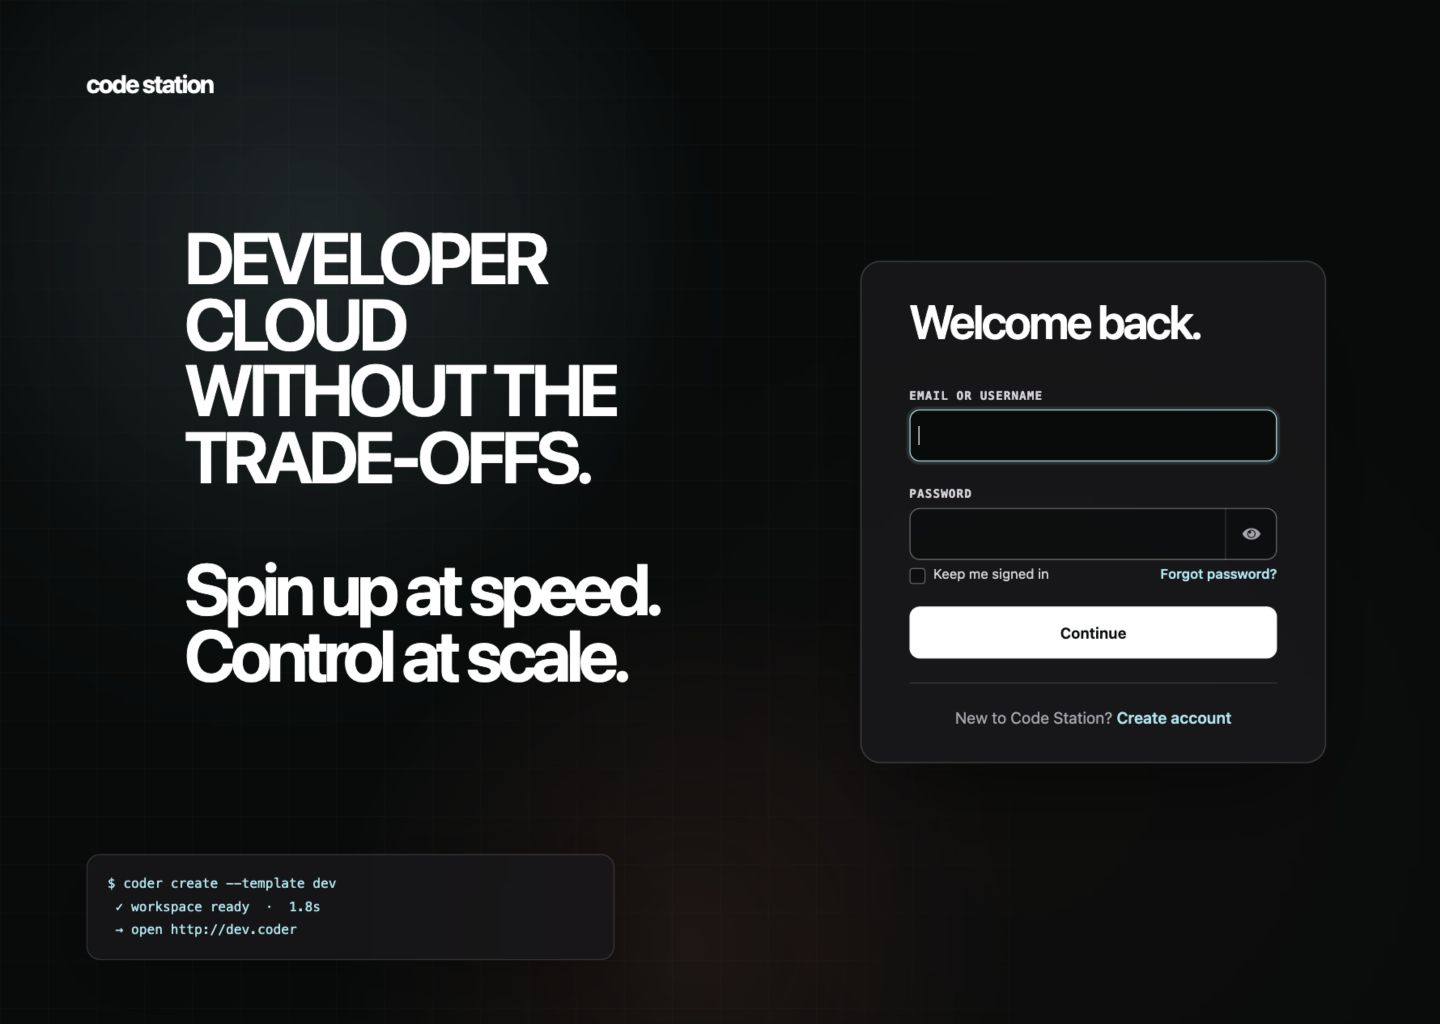
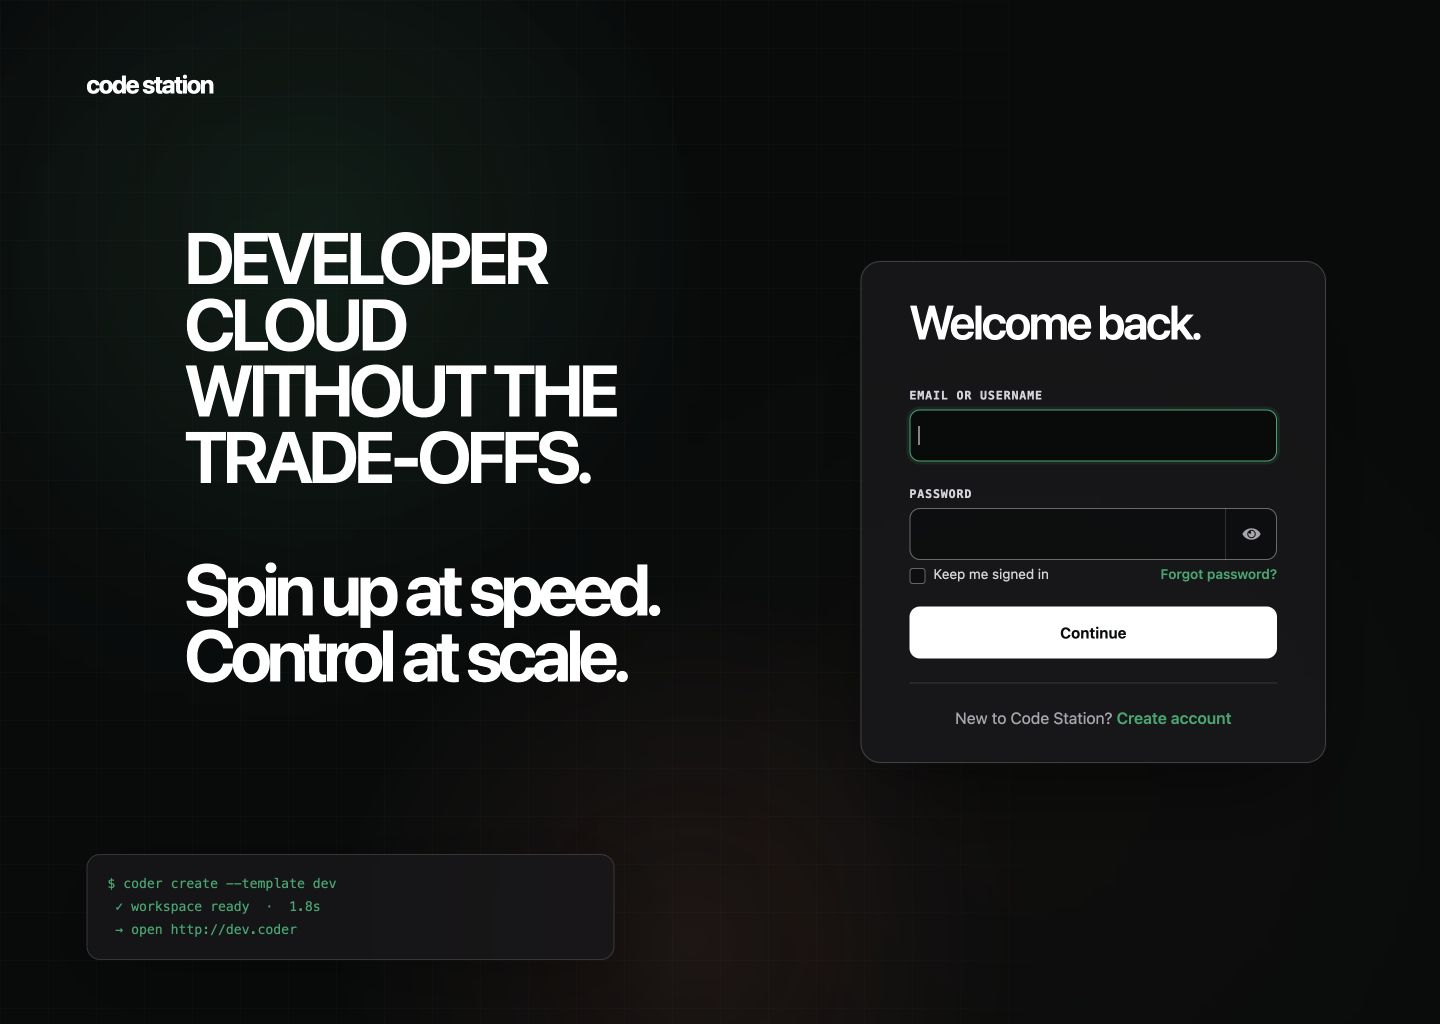
feat!: adopt BNP Paribas identity

diff --git a/theme/coder/welcome/resources/css/welcome.css b/theme/coder/welcome/resources/css/welcome.css
@@ -3,8 +3,8 @@
   --station-card: rgba(24, 23, 26, 0.88);
   --station-white: #fff;
   --station-muted: #a9a5ae;
-  --station-accent: #a4e8f2;
-  --station-accent-strong: #70d7e6;
+  --station-accent: #00a76d;
+  --station-accent-strong: #7fcbae;
   --station-ember: #ff8067;
   --station-border: rgba(255, 255, 255, 0.18);
   --station-border-soft: rgba(255, 255, 255, 0.12);
@@ -46,7 +46,7 @@ body::before {
   background-image:
     linear-gradient(rgba(255, 255, 255, 0.052) 1px, transparent 1px),
     linear-gradient(90deg, rgba(255, 255, 255, 0.052) 1px, transparent 1px),
-    radial-gradient(circle, rgba(164, 232, 242, 0.24) 1px, transparent 1.6px);
+    radial-gradient(circle, rgba(0, 167, 109, 0.24) 1px, transparent 1.6px);
   background-size: 48px 48px, 48px 48px, 96px 96px;
   transform: translate3d(0, 0, 0);
   animation: welcome-grid-flow 18s linear infinite;
@@ -60,15 +60,15 @@ body::after {
     linear-gradient(
       112deg,
       transparent 24%,
-      rgba(164, 232, 242, 0.04) 39%,
-      rgba(164, 232, 242, 0.16) 48%,
+      rgba(0, 167, 109, 0.04) 39%,
+      rgba(0, 167, 109, 0.16) 48%,
       rgba(255, 255, 255, 0.06) 51%,
       rgba(255, 128, 103, 0.1) 55%,
       transparent 72%
     ),
-    radial-gradient(circle at 24% 30%, rgba(164, 232, 242, 0.42), transparent 25%),
+    radial-gradient(circle at 24% 30%, rgba(0, 167, 109, 0.42), transparent 25%),
     radial-gradient(circle at 72% 74%, rgba(255, 128, 103, 0.3), transparent 28%),
-    radial-gradient(circle at 58% 42%, rgba(164, 232, 242, 0.16), transparent 22%);
+    radial-gradient(circle at 58% 42%, rgba(0, 167, 109, 0.16), transparent 22%);
   filter: blur(36px) saturate(112%);
   animation: welcome-ambient-drift 14s ease-in-out infinite alternate;
   will-change: opacity;
@@ -143,7 +143,7 @@ body::after {
   height: 0.5rem;
   border-radius: 50%;
   background: var(--station-accent);
-  box-shadow: 0 0 0 4px rgba(164, 232, 242, 0.1), 0 0 1rem rgba(164, 232, 242, 0.55);
+  box-shadow: 0 0 0 4px rgba(0, 167, 109, 0.1), 0 0 1rem rgba(0, 167, 109, 0.55);
 }
 
 .welcome-layout {
@@ -248,7 +248,7 @@ body::after {
   border-radius: 1.25rem;
   justify-self: end;
   background: var(--station-card);
-  box-shadow: 0 0 0 1px rgba(164, 232, 242, 0.035), 0 2.25rem 6rem -2rem rgba(0, 0, 0, 0.62);
+  box-shadow: 0 0 0 1px rgba(0, 167, 109, 0.035), 0 2.25rem 6rem -2rem rgba(0, 0, 0, 0.62);
   backdrop-filter: blur(20px);
 }
 
@@ -256,15 +256,45 @@ body::after {
   display: grid;
   width: 3rem;
   height: 3rem;
-  margin-bottom: 1.5rem;
-  border: 1px solid rgba(164, 232, 242, 0.35);
+  border: 1px solid rgba(0, 167, 109, 0.35);
   border-radius: 0.75rem;
   place-items: center;
   color: var(--station-accent);
-  background: rgba(164, 232, 242, 0.08);
+  background: rgba(0, 167, 109, 0.08);
   font-family: var(--station-mono);
   font-size: 1rem;
   font-weight: 700;
+}
+
+.welcome-card-header {
+  display: flex;
+  margin-bottom: 1.75rem;
+  align-items: center;
+  gap: 0.9rem;
+}
+
+.welcome-card-header::after {
+  height: 1px;
+  margin-left: 0.2rem;
+  flex: 1;
+  content: "";
+  background: linear-gradient(90deg, var(--station-border), transparent);
+}
+
+.welcome-card-heading-copy {
+  flex: 0 0 auto;
+}
+
+.welcome-card-header .welcome-card-kicker {
+  margin: 0 0 0.3rem;
+}
+
+.welcome-card-context {
+  margin: 0;
+  color: var(--station-muted);
+  font-family: var(--station-mono);
+  font-size: 0.62rem;
+  letter-spacing: 0.08em;
 }
 
 .welcome-icon-success {
@@ -346,6 +376,7 @@ body::after {
 
 .welcome-meta div {
   min-width: 0;
+  text-align: center;
 }
 
 .welcome-meta dt {
@@ -384,8 +415,8 @@ body::after {
 }
 
 .welcome-alert-success {
-  border-color: rgba(164, 232, 242, 0.45);
-  background: rgba(0, 92, 106, 0.22);
+  border-color: rgba(0, 167, 109, 0.45);
+  background: rgba(0, 128, 83, 0.22);
 }
 
 .welcome-alert-error {
@@ -424,7 +455,7 @@ body::after {
 .welcome-control:focus-within {
   border-color: var(--station-accent);
   background: var(--station-black);
-  box-shadow: 0 0 0 3px rgba(164, 232, 242, 0.12);
+  box-shadow: 0 0 0 3px rgba(0, 167, 109, 0.12);
 }
 
 .welcome-control input {

diff --git a/theme/coder/login/resources/css/coder.css b/theme/coder/login/resources/css/coder.css
@@ -5,10 +5,10 @@
   --coder-white: #ffffff;
   --coder-shell: #f8f2f1;
   --coder-linen: #fbf8f8;
-  --code-station-accent: #a4e8f2;
-  --code-station-accent-strong: #70d7e6;
+  --code-station-accent: #00a76d;
+  --code-station-accent-strong: #7fcbae;
   --coder-ember: #ff8067;
-  --coder-sky: #a4e8f2;
+  --coder-green: #00a76d;
   --coder-muted: #a9a5ae;
   --coder-border: rgba(255, 255, 255, 0.14);
   --code-station-card-bg: rgba(24, 23, 26, 0.87);
@@ -46,7 +46,7 @@ html.login-pf,
   background-image:
     linear-gradient(rgba(255, 255, 255, 0.035) 1px, transparent 1px),
     linear-gradient(90deg, rgba(255, 255, 255, 0.035) 1px, transparent 1px),
-    radial-gradient(circle at 22% 22%, rgba(164, 232, 242, 0.2), transparent 28%),
+    radial-gradient(circle at 22% 22%, rgba(0, 167, 109, 0.2), transparent 28%),
     radial-gradient(circle at 48% 92%, rgba(255, 128, 103, 0.18), transparent 30%);
   background-size: 48px 48px, 48px 48px, auto, auto;
   mask-image: linear-gradient(90deg, #000 0%, #000 58%, transparent 78%);
@@ -60,7 +60,7 @@ html.login-pf,
   content: "";
   opacity: 0.2;
   background:
-    radial-gradient(circle at 28% 34%, rgba(164, 232, 242, 0.24), transparent 28%),
+    radial-gradient(circle at 28% 34%, rgba(0, 167, 109, 0.24), transparent 28%),
     radial-gradient(circle at 68% 72%, rgba(255, 128, 103, 0.16), transparent 32%);
   filter: blur(44px);
   transform: translate3d(-1.5%, -1%, 0) scale(1.01);
@@ -136,7 +136,7 @@ html.login-pf,
   padding: 1.1rem 1.25rem;
   border: 1px solid var(--coder-border);
   border-radius: 0.85rem;
-  color: var(--coder-sky);
+  color: var(--coder-green);
   background: rgba(24, 23, 26, 0.78);
   box-shadow: 0 1.5rem 5rem rgba(0, 0, 0, 0.28);
   content: "$ coder create --template dev\A  ✓ workspace ready  ·  1.8s\A  → open http://dev.coder";
@@ -191,7 +191,7 @@ html.login-pf,
   color: var(--coder-white);
   background: var(--code-station-card-bg);
   box-shadow:
-    0 0 0 1px rgba(164, 232, 242, 0.035),
+    0 0 0 1px rgba(0, 167, 109, 0.035),
     0 2.25rem 6rem -2rem rgba(0, 0, 0, 0.62);
   backdrop-filter: blur(20px);
   -webkit-backdrop-filter: blur(20px);
@@ -286,7 +286,7 @@ html.login-pf,
 }
 
 .pf-v5-c-form-control:focus-within {
-  box-shadow: 0 0 0 3px rgba(164, 232, 242, 0.12);
+  box-shadow: 0 0 0 3px rgba(0, 167, 109, 0.12);
 }
 
 .pf-v5-c-form-control input:focus,
@@ -380,7 +380,7 @@ html.login-pf,
 
 .pf-v5-c-button.pf-m-secondary:hover {
   border-color: var(--code-station-accent);
-  background: rgba(164, 232, 242, 0.08);
+  background: rgba(0, 167, 109, 0.08);
 }
 
 a,
@@ -460,8 +460,8 @@ select:focus-visible {
 }
 
 .pf-v5-c-alert.pf-m-success {
-  border-color: rgba(164, 232, 242, 0.48);
-  background: rgba(0, 92, 106, 0.24);
+  border-color: rgba(0, 167, 109, 0.48);
+  background: rgba(0, 128, 83, 0.24);
 }
 
 .pf-v5-c-alert__title,
@@ -530,7 +530,7 @@ select:focus-visible {
     align-self: start;
     background: var(--code-station-card-bg);
     box-shadow:
-      0 0 0 1px rgba(164, 232, 242, 0.035),
+      0 0 0 1px rgba(0, 167, 109, 0.035),
       0 2rem 5rem -1.75rem rgba(0, 0, 0, 0.6);
   }
 

diff --git a/README.md b/README.md
@@ -1,6 +1,6 @@
 # Code Station theme for Keycloak
 
-A developer-first Keycloak login and welcome theme for Code Station, inspired by Coder's dark product experience. It uses black, white, cyan, and ember, mono technical labels, and responsive interfaces without a language selector.
+A developer-first Keycloak login and welcome theme for Code Station, inspired by Coder's dark product experience. It uses black, white, BNP Paribas green, and ember, mono technical labels, and responsive interfaces without a language selector.
 
 ## Preview
 
@@ -20,7 +20,7 @@ docker compose up -d
 ./scripts/smoke-test.sh
 ```
 
-Open the [Code Station account console](http://localhost:8080/realms/coder/account). It starts the complete browser login flow and returns to a real Keycloak screen after authentication. The demo credentials are:
+Open the [Code Station account console](http://localhost:8080/realms/bnp-paribas/account). It starts the complete browser login flow and returns to a real Keycloak screen after authentication. The demo credentials are:
 
 - Username: `developer`
 - Password: `coder-demo`
@@ -46,7 +46,7 @@ docker build -t keycloak-coder-theme .
 ```
 
 The login theme extends `keycloak.v2`, the Welcome theme extends `keycloak`, and both are validated against Keycloak `26.7.0`. Re-test them when upgrading Keycloak because upstream FreeMarker and PatternFly contracts can change.
-The Welcome page's account shortcut intentionally targets the bundled `coder` realm; update that link in `theme/coder/welcome/index.ftl` when deploying under another realm name.
+The Welcome page's account shortcut intentionally targets the bundled `bnp-paribas` realm; update that link in `theme/coder/welcome/index.ftl` when deploying under another realm name.
 
 ## Structure
 
@@ -67,4 +67,4 @@ theme/coder/welcome/
 The theme uses the Code Station name as text and contains no Coder logo asset.
 It is an independent, unofficial project and is not affiliated with or endorsed by Coder Technologies, Inc.
 
-The implementation includes visible keyboard focus, associated native Keycloak labels, high-contrast controls, responsive layouts, and `prefers-reduced-motion` support. A cyan-and-ember workspace signal pulses behind a drifting network grid and is disabled when reduced motion is requested.
+The implementation includes visible keyboard focus, associated native Keycloak labels, high-contrast controls, responsive layouts, and `prefers-reduced-motion` support. A BNP-green-and-ember workspace signal pulses behind a drifting network grid and is disabled when reduced motion is requested.
